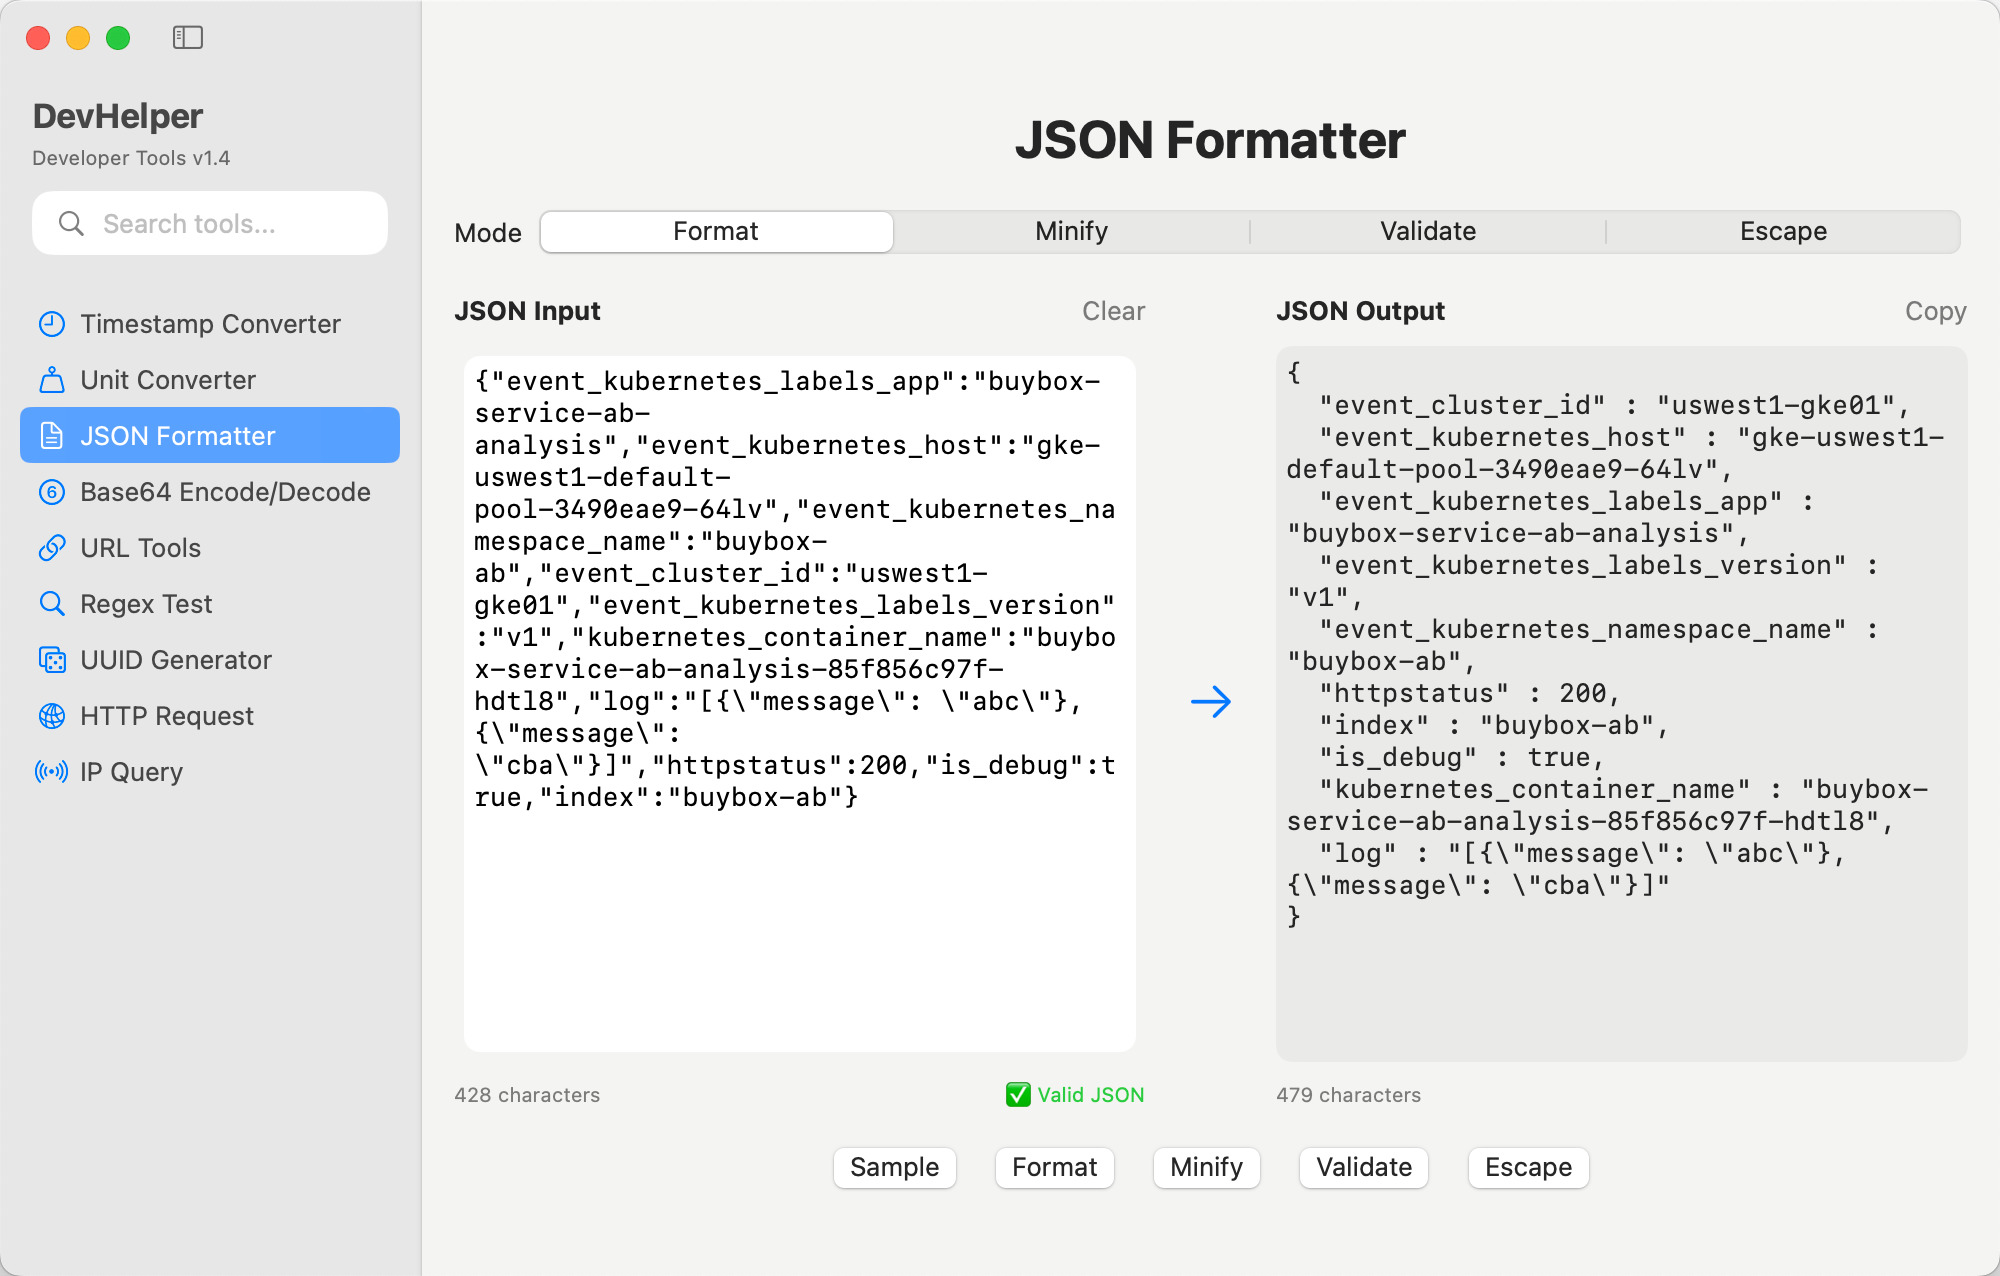
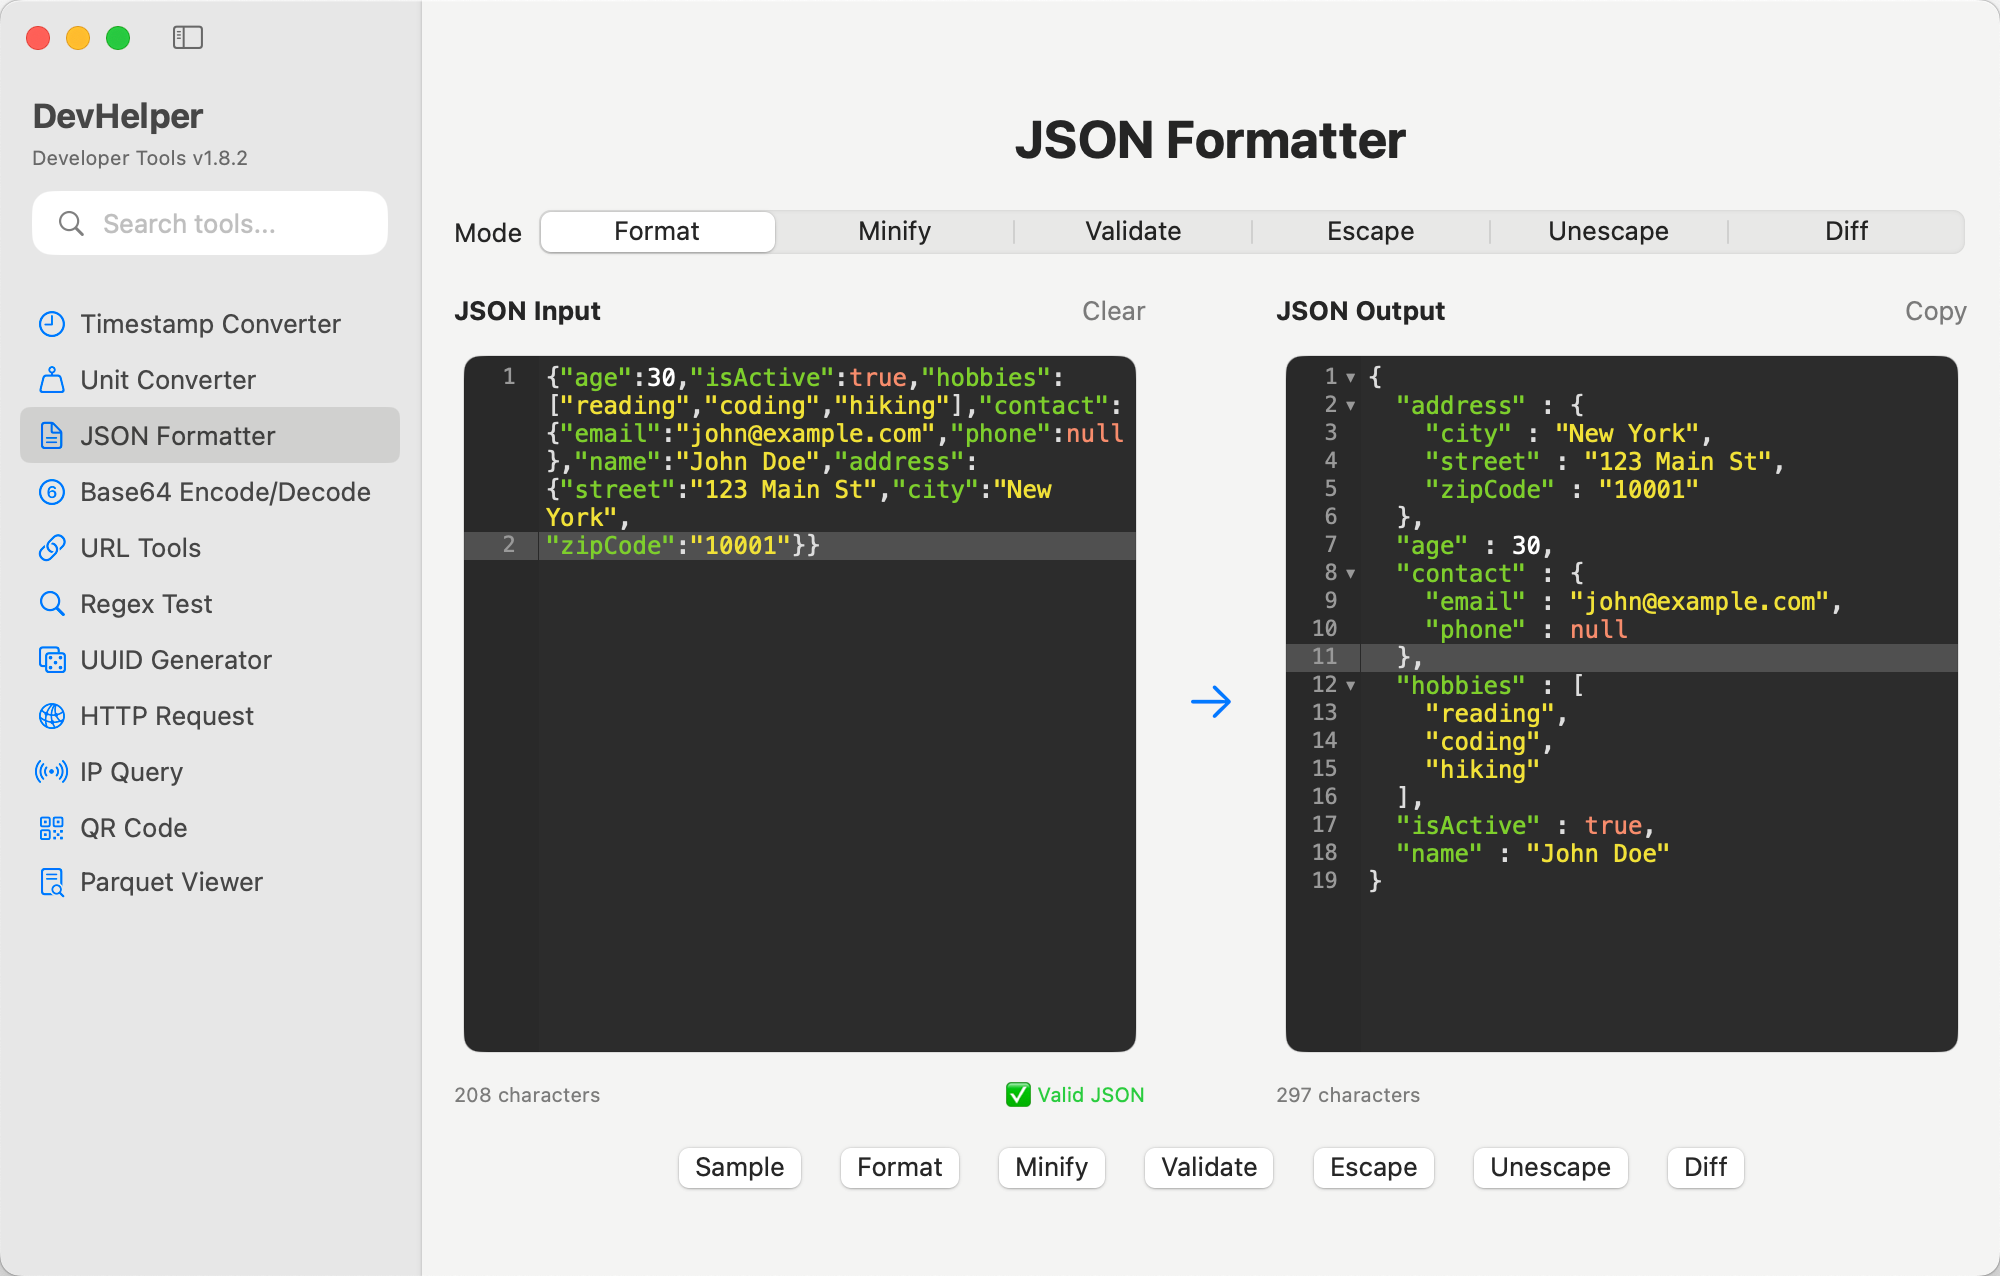
update readme

diff --git a/CLAUDE.md b/CLAUDE.md
@@ -3,7 +3,7 @@
 This file provides guidance to Claude Code (claude.ai/code) when working with code in this repository.
 
 ## Project Overview
-DevHelper is a native macOS application built with SwiftUI that provides essential developer utilities in a single, unified interface. The app contains 11 fully-functional tools commonly used by developers, with search functionality and modern UI design. Version 1.7+ released.
+DevHelper is a native macOS application built with SwiftUI that provides essential developer utilities in a single, unified interface. The app contains 11 fully-functional tools commonly used by developers, with search functionality and modern UI design. Version 1.8.2 released.
 
 ## Tools Implemented
 
@@ -80,25 +80,33 @@ DevHelper is a native macOS application built with SwiftUI that provides essenti
 ### Project Structure
 ```
 DevHelper/
-├── DevHelper.xcodeproj/
+├── DevHelper.xcodeproj/            # Xcode project configuration
+│   └── project.xcworkspace/
+│       └── xcshareddata/swiftpm/   # SPM package dependencies
 ├── DevHelper/
 │   ├── DevHelperApp.swift          # Main app entry point
 │   ├── ContentView.swift           # Navigation split view
 │   ├── Models/
 │   │   └── ToolType.swift          # Tool definitions
-│   └── Views/                      # All 9 tool implementations
-│       ├── TimestampConverterView.swift
-│       ├── UnitConverterView.swift
-│       ├── JSONFormatterView.swift
-│       ├── Base64View.swift
-│       ├── UUIDGeneratorView.swift
-│       ├── URLToolsView.swift
-│       ├── RegexTestView.swift
-│       ├── IPQueryView.swift
-│       ├── HTTPRequestView.swift
-│       ├── QRCodeView.swift
-│       └── ParquetViewerView.swift
-└── DESIGN.md                       # Comprehensive design document
+│   ├── Views/                      # All 11 tool implementations
+│   │   ├── TimestampConverterView.swift
+│   │   ├── UnitConverterView.swift
+│   │   ├── JSONFormatterView.swift
+│   │   ├── Base64View.swift
+│   │   ├── UUIDGeneratorView.swift
+│   │   ├── URLToolsView.swift
+│   │   ├── RegexTestView.swift
+│   │   ├── IPQueryView.swift
+│   │   ├── HTTPRequestView.swift
+│   │   ├── QRCodeView.swift
+│   │   └── ParquetViewerView.swift
+│   ├── Components/                 # Shared UI components
+│   │   ├── CodeEditor.swift        # CodeMirror integration
+│   │   └── TextEditor.swift        # Custom text editor
+│   └── DevHelper.entitlements      # App sandbox permissions
+├── DESIGN.md                       # Comprehensive design document
+├── CLAUDE.md                       # This file - Claude Code guidance
+└── README.md                       # User-facing documentation
 ```
 
 ### Technical Stack
@@ -134,17 +142,24 @@ DevHelper/
 ### Target Settings
 - **Bundle ID**: com.devhelper.DevHelper
 - **Minimum macOS**: 14.0
-- **Version**: 1.8 (Build 7)
+- **Version**: 1.8.2 (Build 1)
 - **Entitlements**: App Sandbox enabled, Hardened Runtime enabled
+- **Swift Version**: 5.0
 
 ### Dependencies
+
+#### Framework Dependencies
 - **SwiftUI**: UI framework
 - **Foundation**: Core utilities and networking
 - **AppKit**: Clipboard access (NSPasteboard), file dialogs
 - **CoreImage**: QR code generation with CIFilter.qrCodeGenerator()
 - **Vision**: QR code scanning with VNDetectBarcodesRequest
 - **UniformTypeIdentifiers**: Modern file type handling for save dialogs
-- **DuckDB**: Swift package for Parquet file reading (via SPM)
+
+#### Swift Package Manager Dependencies
+- **DuckDB**: Swift package for Parquet file reading (branch: v1.4.0-dev1354)
+- **Arrow**: Apache Arrow Swift implementation (v21.0.0)
+- **CodeMirror-SwiftUI**: Code editor integration (github.com/hengfeiyang/CodeMirror-SwiftUI)
 
 ## Recent Updates (Version 1.8+)
 
@@ -235,17 +250,21 @@ Each tool follows a consistent pattern:
 - Uses `@State` for local view state (input text, results, UI state)
 - No complex state management - each tool is self-contained
 - Real-time updates via `onChange` modifiers
+- `@StateObject` for persistent data across view updates
 
 ### File Operations & Entitlements
 - **Save operations** require `com.apple.security.files.user-selected.read-write` entitlement
 - **Network requests** require `com.apple.security.network.client` entitlement  
 - **Clipboard access** uses `NSPasteboard` (macOS) not `UIPasteboard` (iOS)
+- **File dialogs**: Use `NSSavePanel` and `NSOpenPanel` for file operations
 
-### Common Development Issues
-- **Xcode project updates**: When adding new Swift files, must manually update `.pbxproj` file
-- **macOS vs iOS APIs**: Avoid iOS-specific modifiers like `.keyboardType(.decimalPad)`
+### Common Development Issues & Solutions
+- **Xcode project updates**: When adding new Swift files, must manually update `.pbxproj` file or use Xcode GUI
+- **macOS vs iOS APIs**: Avoid iOS-specific modifiers like `.keyboardType(.decimalPad)` - use macOS equivalents
 - **File type handling**: Use `UniformTypeIdentifiers` for modern file operations
 - **Image operations**: Use `CoreImage` for generation, `Vision` for recognition
+- **SPM dependencies**: May need to resolve packages after pulling changes (`xcodebuild -resolvePackageDependencies`)
+- **Code signing**: Ensure Development Team is set in project settings for automatic signing
 
 ## Future Enhancements
 
@@ -269,16 +288,43 @@ Each tool follows a consistent pattern:
 # Open project in Xcode (recommended)
 open DevHelper.xcodeproj
 
-# Build for macOS from command line
-xcodebuild -project DevHelper.xcodeproj -scheme DevHelper -configuration Debug
+# Build for Debug configuration
+xcodebuild -project DevHelper.xcodeproj -scheme DevHelper -configuration Debug build
+
+# Build for Release configuration  
+xcodebuild -project DevHelper.xcodeproj -scheme DevHelper -configuration Release build
 
 # Clean build artifacts
 xcodebuild -project DevHelper.xcodeproj -scheme DevHelper clean
+
+# Archive for distribution
+xcodebuild -project DevHelper.xcodeproj -scheme DevHelper -configuration Release archive
 
 # Build and launch app (using Claude Code MCP tools)
 # 1. Build: mcp__XcodeBuildMCP__build_mac_proj
 # 2. Get app path: mcp__XcodeBuildMCP__get_mac_app_path_proj  
 # 3. Launch: mcp__XcodeBuildMCP__launch_mac_app
+```
+
+### Swift Package Management
+```bash
+# Resolve package dependencies
+xcodebuild -resolvePackageDependencies -project DevHelper.xcodeproj
+
+# Update package dependencies
+xcodebuild -project DevHelper.xcodeproj -scheme DevHelper -resolvePackageDependencies
+```
+
+### Testing & Validation
+```bash
+# Run tests (if available)
+xcodebuild test -project DevHelper.xcodeproj -scheme DevHelper -destination 'platform=macOS'
+
+# Analyze code for potential issues
+xcodebuild analyze -project DevHelper.xcodeproj -scheme DevHelper
+
+# Check for Swift lint issues (requires swiftlint)
+swiftlint lint --path DevHelper/
 ```
 
 ### Xcode Project Management
@@ -287,10 +333,12 @@ xcodebuild -project DevHelper.xcodeproj -scheme DevHelper clean
 - **Target settings**: Bundle ID `com.devhelper.DevHelper`, minimum macOS 14.0
 
 ### Key Development Notes
-- **External dependencies**: DuckDB Swift package via SPM for Parquet file reading
-- **Package manager**: Swift Package Manager (SPM) for DuckDB integration
-- **App Sandbox enabled**: Network client access granted for IP Query tool, file read-write for save operations
+- **External dependencies**: DuckDB, Arrow, CodeMirror-SwiftUI via Swift Package Manager
+- **Package manager**: Swift Package Manager (SPM) for all external dependencies
+- **App Sandbox enabled**: Network client access granted for IP Query and HTTP Request tools, file read-write for save operations
 - **Target**: macOS 14.0+, requires Xcode 15.4+
+- **Code signing**: Automatic with Development Team VS7S7V6J2F
+- **Hardened Runtime**: Enabled with timestamp and runtime options
 
 ### Project Management
 - **Design Document**: `DESIGN.md` contains comprehensive architecture details
@@ -311,8 +359,9 @@ xcodebuild -project DevHelper.xcodeproj -scheme DevHelper clean
 
 ---
 
-**Last Updated**: Version 1.8+ with complete Parquet Viewer and Time Unit Converter.
+**Last Updated**: Version 1.8.2 with complete Parquet Viewer and Time Unit Converter.
 **Latest Additions**: 
 - Full Parquet file reading with DuckDB integration, schema/data/metadata display with export options
 - Time category in Unit Converter with comprehensive time unit conversions
-**Architecture**: SwiftUI with DuckDB Swift package for Parquet functionality.
+- CodeMirror integration for enhanced code editing capabilities
+**Architecture**: SwiftUI with DuckDB, Arrow, and CodeMirror-SwiftUI packages.

diff --git a/DESIGN.md b/DESIGN.md
@@ -8,13 +8,15 @@ DevHelper is a native macOS application built with SwiftUI that provides essenti
 ### Project Structure
 ```
 DevHelper/
-├── DevHelper.xcodeproj/          # Xcode project files
+├── DevHelper.xcodeproj/            # Xcode project configuration
+│   └── project.xcworkspace/
+│       └── xcshareddata/swiftpm/   # SPM package dependencies
 ├── DevHelper/
-│   ├── DevHelperApp.swift        # Main app entry point
-│   ├── ContentView.swift         # Main navigation interface
+│   ├── DevHelperApp.swift          # Main app entry point
+│   ├── ContentView.swift           # Navigation split view
 │   ├── Models/
-│   │   └── ToolType.swift        # Tool definitions and metadata
-│   ├── Views/                    # Individual tool implementations
+│   │   └── ToolType.swift          # Tool definitions
+│   ├── Views/                      # All 11 tool implementations
 │   │   ├── TimestampConverterView.swift
 │   │   ├── UnitConverterView.swift
 │   │   ├── JSONFormatterView.swift
@@ -26,9 +28,15 @@ DevHelper/
 │   │   ├── HTTPRequestView.swift
 │   │   ├── QRCodeView.swift
 │   │   └── ParquetViewerView.swift
-│   ├── Assets.xcassets/          # App icons and assets
-│   └── Preview Content/          # SwiftUI preview assets
-└── README.md                     # Project documentation
+│   ├── Components/                 # Shared UI components
+│   │   ├── CodeEditor.swift        # CodeMirror integration
+│   │   └── TextEditor.swift        # Custom text editor
+│   ├── Assets.xcassets/            # App icons and assets
+│   ├── Preview Content/            # SwiftUI preview assets
+│   └── DevHelper.entitlements      # App sandbox permissions
+├── DESIGN.md                       # This design document
+├── CLAUDE.md                       # Claude Code guidance
+└── README.md                       # User-facing documentation
 ```
 
 ### Technical Stack
@@ -321,6 +329,7 @@ Each tool follows a consistent pattern:
 
 **Features**:
 - Complete Parquet file reading using DuckDB Swift library
+- Support arrow file reading using arrow Swift library
 - Schema extraction with column details (name, type, nullable)
 - Data preview with native SwiftUI table
 - File metadata display via `parquet_file_metadata()`
@@ -337,6 +346,7 @@ Each tool follows a consistent pattern:
 
 **Implementation Details**:
 - DuckDB Swift package integration via SPM
+- Arrow Swfit package integration via SPM
 - SQL queries for data extraction
 - `DESCRIBE SELECT` for schema information
 - `parquet_file_metadata()` and `parquet_kv_metadata()` functions
@@ -402,20 +412,30 @@ enum ToolType: String, CaseIterable, Identifiable {
 ### Target Settings
 - **Minimum macOS**: 14.0
 - **Bundle Identifier**: com.devhelper.DevHelper
-- **Version**: 1.8 (Build 7)
+- **Version**: 1.8.2 (Build 1)
+- **Swift Version**: 5.0
 - **App Sandbox**: Enabled
+- **Hardened Runtime**: Enabled
 - **Network Access**: Enabled (for HTTP and IP Query tools)
 - **File Access**: User-selected read-write
 
 ### Dependencies
+
+#### Framework Dependencies
 - **SwiftUI**: UI framework
 - **Combine**: Reactive programming
-- **Foundation**: Core utilities
+- **Foundation**: Core utilities and networking
 - **AppKit**: macOS integration (clipboard access, file dialogs)
-- **CoreImage**: QR code generation
-- **Vision**: QR code scanning
+- **CoreImage**: QR code generation with CIFilter
+- **Vision**: QR code scanning with VNDetectBarcodesRequest
 - **UniformTypeIdentifiers**: Modern file type handling
-- **DuckDB**: Swift package for Parquet file reading (via SPM)
+
+#### Swift Package Manager Dependencies
+- **DuckDB**: Swift package for Parquet file reading (branch: v1.4.0-dev1354)
+- **Arrow**: Apache Arrow Swift implementation (v21.0.0)
+- **CodeMirror-SwiftUI**: Code editor integration (github.com/hengfeiyang/CodeMirror-SwiftUI)
+- **FlatBuffers**: Google FlatBuffers (v25.2.10) - Arrow dependency
+- **Swift-Atomics**: Apple Swift Atomics (v1.3.0) - Arrow dependency
 
 ## Testing Strategy
 

diff --git a/README.md b/README.md
@@ -16,7 +16,7 @@ A native macOS application for developers, containing 11 essential tools commonl
 - **HTTP Request** - Full-featured HTTP client with method selection, headers, auth, response handling, and JSON tree view
 - **IP Query** - Discover your IP address and query geolocation data for any IP
 - **QR Code** - Generate QR codes with multiple sizes and error correction levels, scan QR codes from images
-- **Parquet Viewer** - Read and explore Parquet files with schema inspection and data export
+- **Parquet Viewer** - Read and explore Parquet / arrow files with schema inspection and data export
 
 ## Key Features
 
@@ -38,7 +38,7 @@ A native macOS application for developers, containing 11 essential tools commonl
 
 ## Version
 
-Current version: 1.8
+Current version: 1.8.2
 
 ## Screenshots
 
@@ -76,3 +76,7 @@ Http Request History
 ![DevHelper QR Code](./screenshots/qrcode.png)
 
 #### Parquet Viewer
+![DevHelper Paruqet metadata](./screenshots/parquet_schema.png)
+
+Parquet data view
+![DevHelper Paruqet data view](./screenshots/parquet_data.png)
